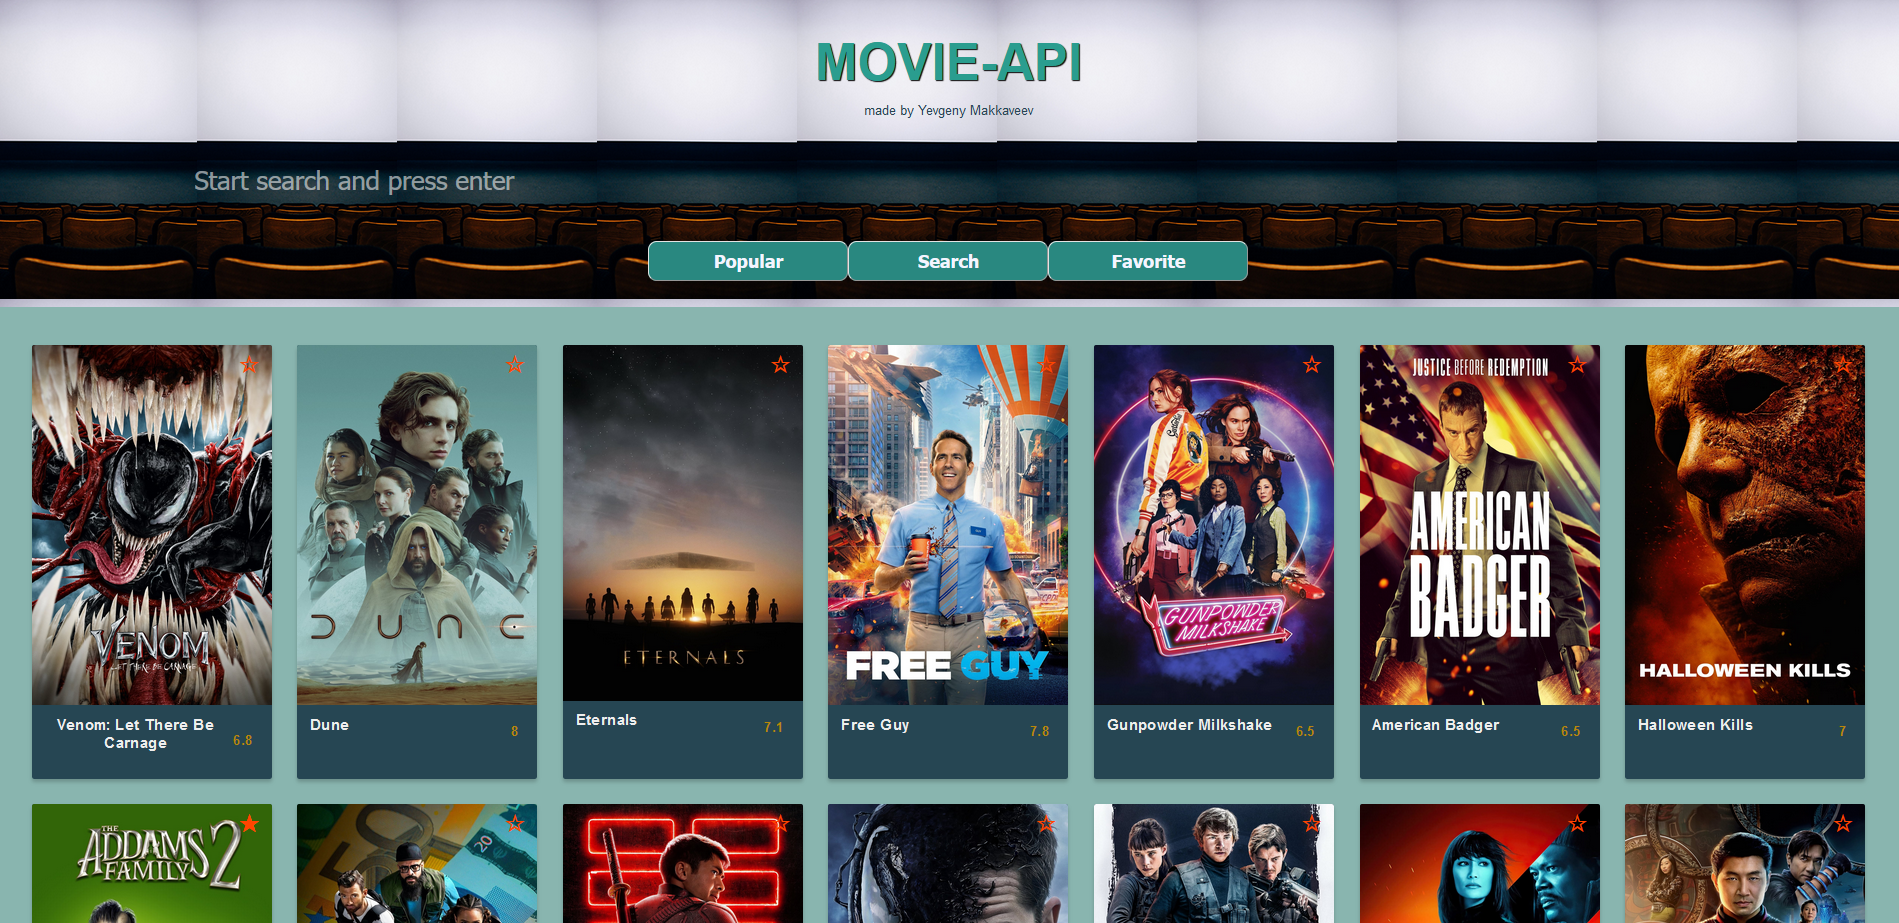
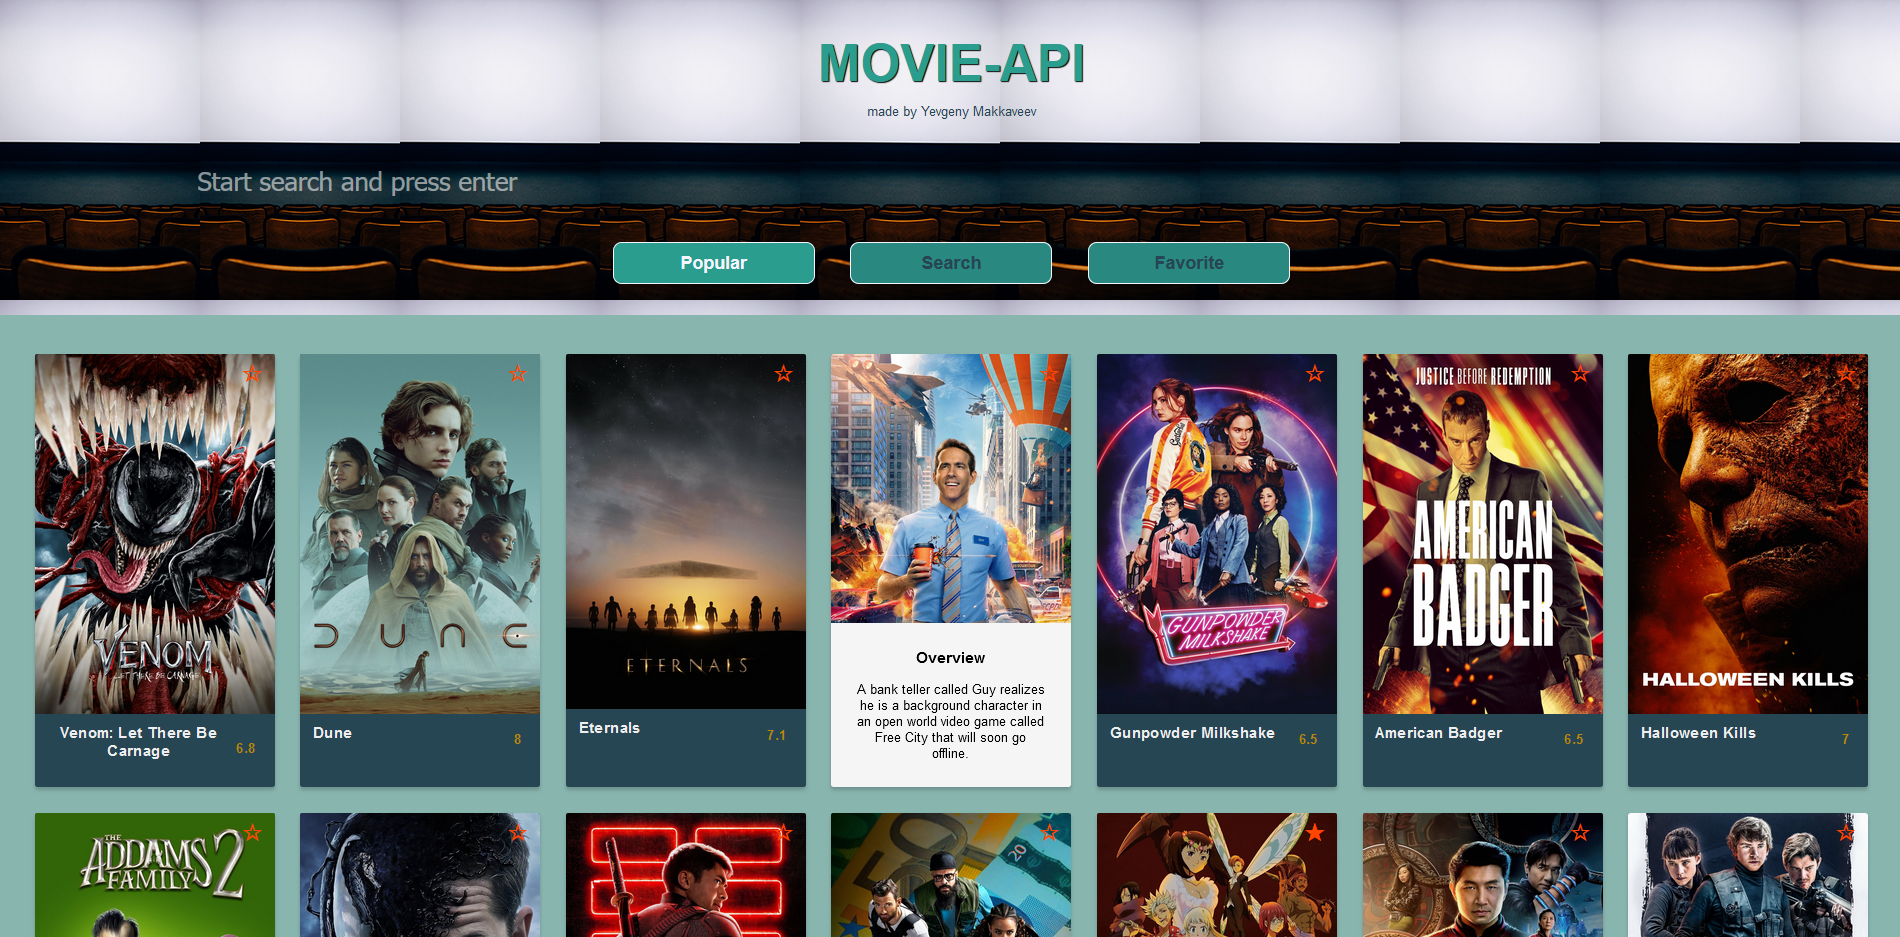
Active style fixes

diff --git a/src/components/Header/NavButtons/NavButtons.tsx b/src/components/Header/NavButtons/NavButtons.tsx
@@ -2,68 +2,64 @@ import React from "react";
 import { NavLink } from "react-router-dom";
 import "./NavButtons.scss";
 
-const NavButtons: React.FC = () => (
-  <div className="btn_wrap">
-    <div className="btns">
-      <div className="text_btn">
-        <NavLink
-          style={{
-            display: "block",
-            color: "#264653",
-            textDecoration: "none",
-            height: "auto",
-            width: "auto",
-            paddingTop: "0.4em",
-          }}
-          activeStyle={{
-            fontWeight: "bold",
-            color: "#F4F5FF",
-          }}
-          to="/popular"
-        >
-          Popular
-        </NavLink>
-      </div>
-      <div className="text_btn">
-        <NavLink
-          style={{
-            display: "block",
-            color: "#264653",
-            textDecoration: "none",
-            height: "auto",
-            width: "auto",
-            paddingTop: "0.4em",
-          }}
-          activeStyle={{
-            fontWeight: "bold",
-            color: "#F4F5FF",
-          }}
-          to="/search"
-        >
-          Search
-        </NavLink>
-      </div>
-      <div className="text_btn">
-        <NavLink
-          style={{
-            display: "block",
-            color: "#264653",
-            textDecoration: "none",
-            height: "auto",
-            width: "auto",
-            paddingTop: "0.4em",
-          }}
-          activeStyle={{
-            fontWeight: "bold",
-            color: "#F4F5FF",
-          }}
-          to="/favorite"
-        >
-          Favorite
-        </NavLink>
+const NavButtons: React.FC = () => {
+  const navStyle = {
+    display: "flex",
+    color: "#264653",
+    textDecoration: "none",
+    height: "100%",
+    width: "100%",
+    justifyContent: "center",
+    alignItems: "center",
+  };
+  return (
+    <div className="btn_wrap">
+      <div className="btns">
+        <div className="text_btn">
+          <NavLink
+            style={navStyle}
+            activeStyle={{
+              fontWeight: "bold",
+              backgroundColor: "#2a9d8f",
+              borderRadius: " 0.5em",
+              color: "#F4F5FF",
+            }}
+            to="/popular"
+          >
+            Popular
+          </NavLink>
+        </div>
+        <div className="text_btn">
+          <NavLink
+            style={navStyle}
+            activeStyle={{
+              fontWeight: "bold",
+              backgroundColor: "#2a9d8f",
+              borderRadius: " 0.5em",
+              color: "#F4F5FF",
+            }}
+            to="/search"
+          >
+            Search
+          </NavLink>
+        </div>
+        <div className="text_btn">
+          <NavLink
+            style={navStyle}
+            activeStyle={{
+              fontWeight: "bold",
+              backgroundColor: "#2a9d8f",
+              borderRadius: " 0.5em",
+              color: "#F4F5FF",
+            }}
+            to="/favorite"
+          >
+            Favorite
+          </NavLink>
+        </div>
       </div>
     </div>
-  </div>
-);
+  );
+};
 
 export default NavButtons;
